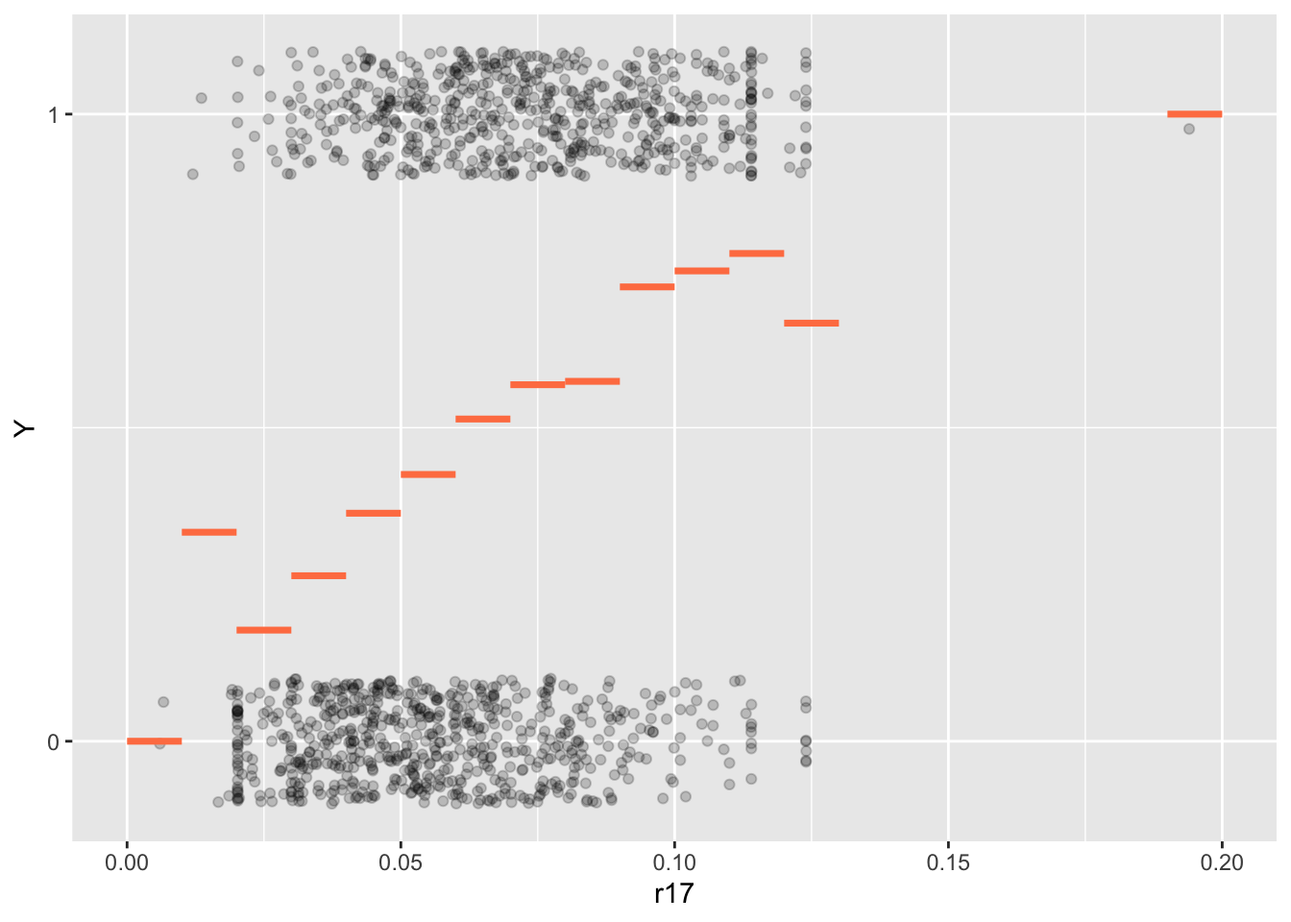
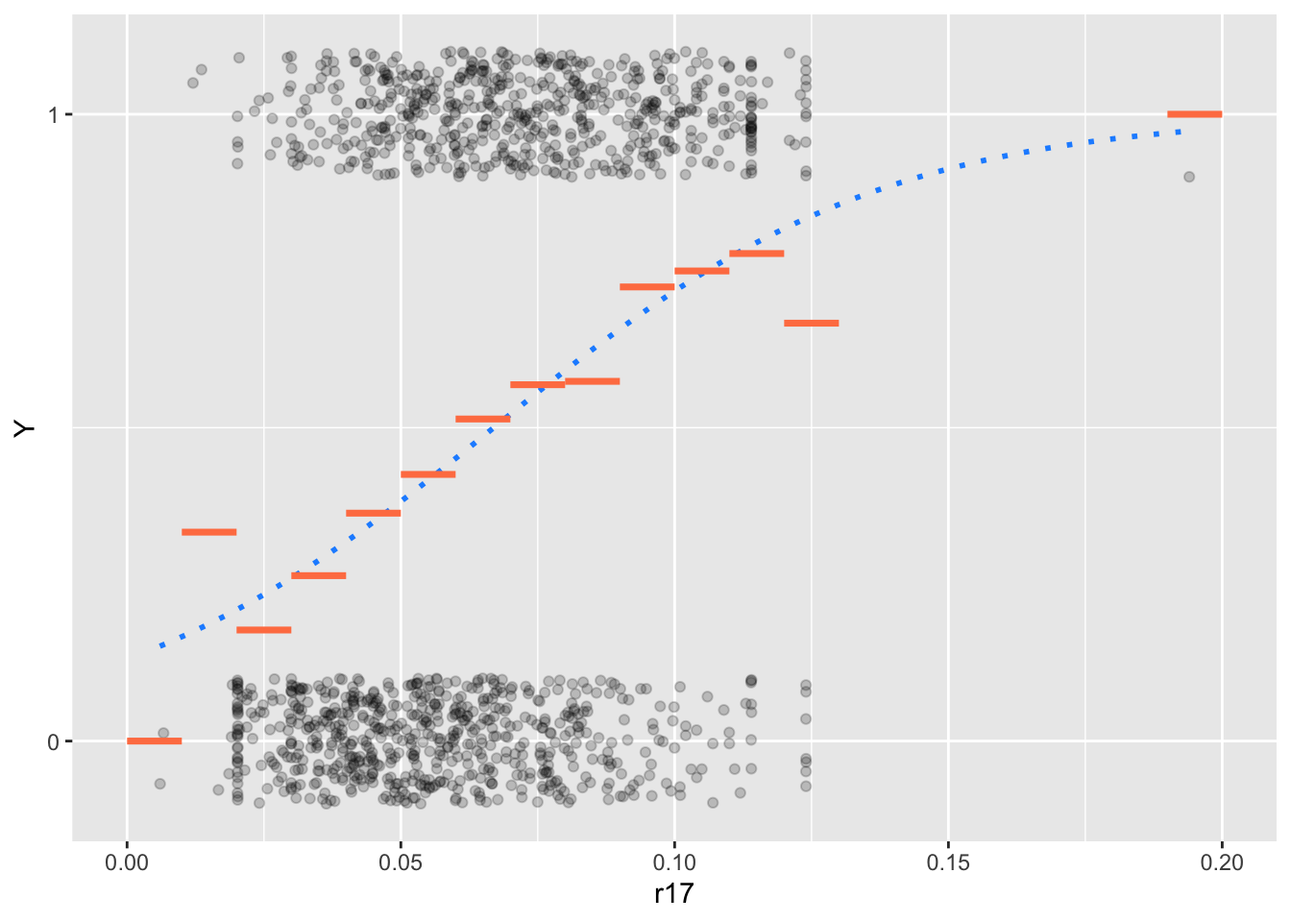
add plot logreg ROC Desbois Case study

diff --git a/0_warmup_desbois/0_warmup_desbois_solution.html b/0_warmup_desbois/0_warmup_desbois_solution.html
@@ -465,31 +465,25 @@ r36  0.192</code></pre>
 </details>
 </div>
 <div class="cell">
-<details open="">
-<summary>Code</summary>
-<div class="sourceCode cell-code" id="cb24"><pre class="sourceCode r code-with-copy"><code class="sourceCode r"><span id="cb24-1"><a href="#cb24-1" aria-hidden="true" tabindex="-1"></a><span class="do">########## YOUR CODE HERE #####################</span></span></code><button title="Copy to Clipboard" class="code-copy-button"><i class="bi"></i></button></pre></div>
-</details>
-</div>
-<div class="cell">
 <details>
 <summary>Code</summary>
-<div class="sourceCode cell-code" id="cb25"><pre class="sourceCode r code-with-copy"><code class="sourceCode r"><span id="cb25-1"><a href="#cb25-1" aria-hidden="true" tabindex="-1"></a>class_width <span class="ot">&lt;-</span> <span class="fl">0.01</span></span>
-<span id="cb25-2"><a href="#cb25-2" aria-hidden="true" tabindex="-1"></a>don_desbois_binned <span class="ot">&lt;-</span> don_desbois <span class="sc">%&gt;%</span></span>
-<span id="cb25-3"><a href="#cb25-3" aria-hidden="true" tabindex="-1"></a>    <span class="fu">mutate</span>(<span class="at">r17_bins =</span> <span class="fu">cut</span>(r17, <span class="at">breaks =</span> <span class="fu">seq</span>(<span class="dv">0</span>, <span class="fl">0.2</span>, class_width),</span>
-<span id="cb25-4"><a href="#cb25-4" aria-hidden="true" tabindex="-1"></a>                              <span class="at">right =</span> <span class="cn">FALSE</span>, <span class="at">dig.lab =</span> <span class="dv">4</span>, <span class="at">include.lowest =</span> <span class="cn">TRUE</span>),</span>
-<span id="cb25-5"><a href="#cb25-5" aria-hidden="true" tabindex="-1"></a>           <span class="at">min =</span> <span class="fu">floor</span>(r17 <span class="sc">/</span> class_width) <span class="sc">*</span> class_width,</span>
-<span id="cb25-6"><a href="#cb25-6" aria-hidden="true" tabindex="-1"></a>           <span class="at">max =</span> <span class="fu">if_else</span>(r17 <span class="sc">==</span> <span class="dv">0</span> , <span class="dv">1</span>, </span>
-<span id="cb25-7"><a href="#cb25-7" aria-hidden="true" tabindex="-1"></a>                         <span class="co"># customers with 0$ balance should belong to [0, width) class</span></span>
-<span id="cb25-8"><a href="#cb25-8" aria-hidden="true" tabindex="-1"></a>                         <span class="co"># or be excluded</span></span>
-<span id="cb25-9"><a href="#cb25-9" aria-hidden="true" tabindex="-1"></a>                         <span class="fu">ceiling</span>(r17 <span class="sc">/</span> class_width))  <span class="sc">*</span> class_width,</span>
-<span id="cb25-10"><a href="#cb25-10" aria-hidden="true" tabindex="-1"></a>           <span class="at">max =</span> <span class="fu">if_else</span>(min<span class="sc">==</span>max, (<span class="fu">ceiling</span>(r17 <span class="sc">/</span> class_width) <span class="sc">+</span> <span class="dv">1</span>)  <span class="sc">*</span> class_width, max)) <span class="sc">%&gt;%</span> </span>
-<span id="cb25-11"><a href="#cb25-11" aria-hidden="true" tabindex="-1"></a>    <span class="fu">group_by</span>(r17_bins, min, max, Y) <span class="sc">%&gt;%</span> </span>
-<span id="cb25-12"><a href="#cb25-12" aria-hidden="true" tabindex="-1"></a>    <span class="fu">summarize</span>(<span class="at">n=</span><span class="fu">n</span>()) <span class="sc">%&gt;%</span> </span>
-<span id="cb25-13"><a href="#cb25-13" aria-hidden="true" tabindex="-1"></a>    <span class="fu">ungroup</span>() <span class="sc">%&gt;%</span> </span>
-<span id="cb25-14"><a href="#cb25-14" aria-hidden="true" tabindex="-1"></a>    <span class="fu">pivot_wider</span>(<span class="at">names_from =</span> Y, <span class="at">values_from =</span> n) <span class="sc">%&gt;%</span></span>
-<span id="cb25-15"><a href="#cb25-15" aria-hidden="true" tabindex="-1"></a>    <span class="fu">replace_na</span>(<span class="fu">list</span>(<span class="st">`</span><span class="at">0</span><span class="st">`</span> <span class="ot">=</span> <span class="dv">0</span>, <span class="st">`</span><span class="at">1</span><span class="st">`</span> <span class="ot">=</span> <span class="dv">0</span>)) <span class="sc">%&gt;%</span> </span>
-<span id="cb25-16"><a href="#cb25-16" aria-hidden="true" tabindex="-1"></a>    <span class="fu">mutate</span>(<span class="st">`</span><span class="at">Mean(Y)</span><span class="st">`</span> <span class="ot">=</span> <span class="fu">round</span>(<span class="st">`</span><span class="at">1</span><span class="st">`</span> <span class="sc">/</span> (<span class="st">`</span><span class="at">1</span><span class="st">`</span> <span class="sc">+</span> <span class="st">`</span><span class="at">0</span><span class="st">`</span>), <span class="dv">4</span>))</span>
-<span id="cb25-17"><a href="#cb25-17" aria-hidden="true" tabindex="-1"></a><span class="fu">cat</span>(simplermarkdown<span class="sc">::</span><span class="fu">md_table</span>(don_desbois_binned <span class="sc">%&gt;%</span> <span class="fu">select</span>(<span class="at">r17_class=</span>r17_bins, <span class="st">`</span><span class="at">0</span><span class="st">`</span>, <span class="st">`</span><span class="at">1</span><span class="st">`</span>,<span class="st">`</span><span class="at">Mean(Y)</span><span class="st">`</span> )))</span></code><button title="Copy to Clipboard" class="code-copy-button"><i class="bi"></i></button></pre></div>
+<div class="sourceCode cell-code" id="cb24"><pre class="sourceCode r code-with-copy"><code class="sourceCode r"><span id="cb24-1"><a href="#cb24-1" aria-hidden="true" tabindex="-1"></a>class_width <span class="ot">&lt;-</span> <span class="fl">0.01</span></span>
+<span id="cb24-2"><a href="#cb24-2" aria-hidden="true" tabindex="-1"></a>don_desbois_binned <span class="ot">&lt;-</span> don_desbois <span class="sc">%&gt;%</span></span>
+<span id="cb24-3"><a href="#cb24-3" aria-hidden="true" tabindex="-1"></a>    <span class="fu">mutate</span>(<span class="at">r17_bins =</span> <span class="fu">cut</span>(r17, <span class="at">breaks =</span> <span class="fu">seq</span>(<span class="dv">0</span>, <span class="fl">0.2</span>, class_width),</span>
+<span id="cb24-4"><a href="#cb24-4" aria-hidden="true" tabindex="-1"></a>                              <span class="at">right =</span> <span class="cn">FALSE</span>, <span class="at">dig.lab =</span> <span class="dv">4</span>, <span class="at">include.lowest =</span> <span class="cn">TRUE</span>),</span>
+<span id="cb24-5"><a href="#cb24-5" aria-hidden="true" tabindex="-1"></a>           <span class="at">min =</span> <span class="fu">floor</span>(r17 <span class="sc">/</span> class_width) <span class="sc">*</span> class_width,</span>
+<span id="cb24-6"><a href="#cb24-6" aria-hidden="true" tabindex="-1"></a>           <span class="at">max =</span> <span class="fu">if_else</span>(r17 <span class="sc">==</span> <span class="dv">0</span> , <span class="dv">1</span>, </span>
+<span id="cb24-7"><a href="#cb24-7" aria-hidden="true" tabindex="-1"></a>                         <span class="co"># customers with 0$ balance should belong to [0, width) class</span></span>
+<span id="cb24-8"><a href="#cb24-8" aria-hidden="true" tabindex="-1"></a>                         <span class="co"># or be excluded</span></span>
+<span id="cb24-9"><a href="#cb24-9" aria-hidden="true" tabindex="-1"></a>                         <span class="fu">ceiling</span>(r17 <span class="sc">/</span> class_width))  <span class="sc">*</span> class_width,</span>
+<span id="cb24-10"><a href="#cb24-10" aria-hidden="true" tabindex="-1"></a>           <span class="at">max =</span> <span class="fu">if_else</span>(min<span class="sc">==</span>max, (<span class="fu">ceiling</span>(r17 <span class="sc">/</span> class_width) <span class="sc">+</span> <span class="dv">1</span>)  <span class="sc">*</span> class_width, max)) <span class="sc">%&gt;%</span> </span>
+<span id="cb24-11"><a href="#cb24-11" aria-hidden="true" tabindex="-1"></a>    <span class="fu">group_by</span>(r17_bins, min, max, Y) <span class="sc">%&gt;%</span> </span>
+<span id="cb24-12"><a href="#cb24-12" aria-hidden="true" tabindex="-1"></a>    <span class="fu">summarize</span>(<span class="at">n=</span><span class="fu">n</span>()) <span class="sc">%&gt;%</span> </span>
+<span id="cb24-13"><a href="#cb24-13" aria-hidden="true" tabindex="-1"></a>    <span class="fu">ungroup</span>() <span class="sc">%&gt;%</span> </span>
+<span id="cb24-14"><a href="#cb24-14" aria-hidden="true" tabindex="-1"></a>    <span class="fu">pivot_wider</span>(<span class="at">names_from =</span> Y, <span class="at">values_from =</span> n) <span class="sc">%&gt;%</span></span>
+<span id="cb24-15"><a href="#cb24-15" aria-hidden="true" tabindex="-1"></a>    <span class="fu">replace_na</span>(<span class="fu">list</span>(<span class="st">`</span><span class="at">0</span><span class="st">`</span> <span class="ot">=</span> <span class="dv">0</span>, <span class="st">`</span><span class="at">1</span><span class="st">`</span> <span class="ot">=</span> <span class="dv">0</span>)) <span class="sc">%&gt;%</span> </span>
+<span id="cb24-16"><a href="#cb24-16" aria-hidden="true" tabindex="-1"></a>    <span class="fu">mutate</span>(<span class="st">`</span><span class="at">Mean(Y)</span><span class="st">`</span> <span class="ot">=</span> <span class="fu">round</span>(<span class="st">`</span><span class="at">1</span><span class="st">`</span> <span class="sc">/</span> (<span class="st">`</span><span class="at">1</span><span class="st">`</span> <span class="sc">+</span> <span class="st">`</span><span class="at">0</span><span class="st">`</span>), <span class="dv">4</span>))</span>
+<span id="cb24-17"><a href="#cb24-17" aria-hidden="true" tabindex="-1"></a><span class="fu">cat</span>(simplermarkdown<span class="sc">::</span><span class="fu">md_table</span>(don_desbois_binned <span class="sc">%&gt;%</span> <span class="fu">select</span>(<span class="at">r17_class=</span>r17_bins, <span class="st">`</span><span class="at">0</span><span class="st">`</span>, <span class="st">`</span><span class="at">1</span><span class="st">`</span>,<span class="st">`</span><span class="at">Mean(Y)</span><span class="st">`</span> )))</span></code><button title="Copy to Clipboard" class="code-copy-button"><i class="bi"></i></button></pre></div>
 </details>
 <div class="cell-output cell-output-stdout">
 <pre><code>|r17_class  |0  |1 |Mean(Y)|
@@ -516,8 +510,24 @@ r36  0.192</code></pre>
 <div class="cell">
 <details open="">
 <summary>Code</summary>
-<div class="sourceCode cell-code" id="cb27"><pre class="sourceCode r code-with-copy"><code class="sourceCode r"><span id="cb27-1"><a href="#cb27-1" aria-hidden="true" tabindex="-1"></a><span class="do">########## YOUR CODE HERE #####################</span></span></code><button title="Copy to Clipboard" class="code-copy-button"><i class="bi"></i></button></pre></div>
+<div class="sourceCode cell-code" id="cb26"><pre class="sourceCode r code-with-copy"><code class="sourceCode r"><span id="cb26-1"><a href="#cb26-1" aria-hidden="true" tabindex="-1"></a><span class="do">########## YOUR CODE HERE #####################</span></span></code><button title="Copy to Clipboard" class="code-copy-button"><i class="bi"></i></button></pre></div>
 </details>
+</div>
+<div class="cell">
+<details>
+<summary>Code</summary>
+<div class="sourceCode cell-code" id="cb27"><pre class="sourceCode r code-with-copy"><code class="sourceCode r"><span id="cb27-1"><a href="#cb27-1" aria-hidden="true" tabindex="-1"></a>(default_occurrence <span class="ot">&lt;-</span> </span>
+<span id="cb27-2"><a href="#cb27-2" aria-hidden="true" tabindex="-1"></a> <span class="fu">ggplot</span>(don_desbois <span class="sc">%&gt;%</span> <span class="fu">mutate</span>(<span class="at">Y =</span> <span class="fu">if_else</span>(Y <span class="sc">==</span> <span class="st">"1"</span>, <span class="dv">1</span>, <span class="dv">0</span>)), <span class="fu">aes</span>(<span class="at">x=</span>r17, <span class="at">y=</span>Y)) <span class="sc">+</span></span>
+<span id="cb27-3"><a href="#cb27-3" aria-hidden="true" tabindex="-1"></a> <span class="fu">geom_jitter</span>(<span class="at">alpha=</span><span class="fl">0.2</span>, <span class="at">height=</span><span class="fl">0.1</span>) <span class="sc">+</span></span>
+<span id="cb27-4"><a href="#cb27-4" aria-hidden="true" tabindex="-1"></a> <span class="fu">geom_segment</span>(<span class="at">data =</span> don_desbois_binned,</span>
+<span id="cb27-5"><a href="#cb27-5" aria-hidden="true" tabindex="-1"></a>              <span class="fu">aes</span>(<span class="at">x =</span> min, <span class="at">xend =</span> max, <span class="at">y =</span> <span class="st">`</span><span class="at">Mean(Y)</span><span class="st">`</span>, <span class="at">yend =</span> <span class="st">`</span><span class="at">Mean(Y)</span><span class="st">`</span>),</span>
+<span id="cb27-6"><a href="#cb27-6" aria-hidden="true" tabindex="-1"></a>              <span class="at">color =</span> <span class="st">'coral'</span>,</span>
+<span id="cb27-7"><a href="#cb27-7" aria-hidden="true" tabindex="-1"></a>              <span class="at">linewidth=</span><span class="fl">1.25</span>)) <span class="sc">+</span></span>
+<span id="cb27-8"><a href="#cb27-8" aria-hidden="true" tabindex="-1"></a> <span class="fu">scale_y_continuous</span>(<span class="at">breaks =</span> <span class="fu">c</span>(<span class="dv">0</span>, <span class="dv">1</span>))</span></code><button title="Copy to Clipboard" class="code-copy-button"><i class="bi"></i></button></pre></div>
+</details>
+<div class="cell-output-display">
+<p><img src="0_warmup_desbois_solution_files/figure-html/unnamed-chunk-21-1.png" class="img-fluid" width="672"></p>
+</div>
 </div>
 <div class="cell">
 <details>
@@ -525,41 +535,134 @@ r36  0.192</code></pre>
 <div class="sourceCode cell-code" id="cb28"><pre class="sourceCode r code-with-copy"><code class="sourceCode r"><span id="cb28-1"><a href="#cb28-1" aria-hidden="true" tabindex="-1"></a>(default_occurrence <span class="ot">&lt;-</span> </span>
 <span id="cb28-2"><a href="#cb28-2" aria-hidden="true" tabindex="-1"></a> <span class="fu">ggplot</span>(don_desbois <span class="sc">%&gt;%</span> <span class="fu">mutate</span>(<span class="at">Y =</span> <span class="fu">if_else</span>(Y <span class="sc">==</span> <span class="st">"1"</span>, <span class="dv">1</span>, <span class="dv">0</span>)), <span class="fu">aes</span>(<span class="at">x=</span>r17, <span class="at">y=</span>Y)) <span class="sc">+</span></span>
 <span id="cb28-3"><a href="#cb28-3" aria-hidden="true" tabindex="-1"></a> <span class="fu">geom_jitter</span>(<span class="at">alpha=</span><span class="fl">0.2</span>, <span class="at">height=</span><span class="fl">0.1</span>) <span class="sc">+</span></span>
-<span id="cb28-4"><a href="#cb28-4" aria-hidden="true" tabindex="-1"></a> <span class="fu">geom_segment</span>(<span class="at">data =</span> don_desbois_binned,</span>
-<span id="cb28-5"><a href="#cb28-5" aria-hidden="true" tabindex="-1"></a>              <span class="fu">aes</span>(<span class="at">x =</span> min, <span class="at">xend =</span> max, <span class="at">y =</span> <span class="st">`</span><span class="at">Mean(Y)</span><span class="st">`</span>, <span class="at">yend =</span> <span class="st">`</span><span class="at">Mean(Y)</span><span class="st">`</span>),</span>
-<span id="cb28-6"><a href="#cb28-6" aria-hidden="true" tabindex="-1"></a>              <span class="at">color =</span> <span class="st">'coral'</span>,</span>
-<span id="cb28-7"><a href="#cb28-7" aria-hidden="true" tabindex="-1"></a>              <span class="at">linewidth=</span><span class="fl">1.25</span>)) <span class="sc">+</span></span>
-<span id="cb28-8"><a href="#cb28-8" aria-hidden="true" tabindex="-1"></a> <span class="fu">scale_y_continuous</span>(<span class="at">breaks =</span> <span class="fu">c</span>(<span class="dv">0</span>, <span class="dv">1</span>))</span></code><button title="Copy to Clipboard" class="code-copy-button"><i class="bi"></i></button></pre></div>
+<span id="cb28-4"><a href="#cb28-4" aria-hidden="true" tabindex="-1"></a> <span class="fu">geom_smooth</span>(<span class="at">method =</span> <span class="st">"glm"</span>, </span>
+<span id="cb28-5"><a href="#cb28-5" aria-hidden="true" tabindex="-1"></a>             <span class="at">formula =</span> y <span class="sc">~</span> x,</span>
+<span id="cb28-6"><a href="#cb28-6" aria-hidden="true" tabindex="-1"></a>             <span class="at">method.args =</span> <span class="fu">list</span>(<span class="at">family =</span> <span class="st">"binomial"</span>), </span>
+<span id="cb28-7"><a href="#cb28-7" aria-hidden="true" tabindex="-1"></a>             <span class="at">se =</span> <span class="cn">FALSE</span>,</span>
+<span id="cb28-8"><a href="#cb28-8" aria-hidden="true" tabindex="-1"></a>             <span class="at">col =</span> <span class="st">"dodgerblue"</span>,</span>
+<span id="cb28-9"><a href="#cb28-9" aria-hidden="true" tabindex="-1"></a>             <span class="at">linetype =</span> <span class="st">"dotted"</span>) <span class="sc">+</span></span>
+<span id="cb28-10"><a href="#cb28-10" aria-hidden="true" tabindex="-1"></a> <span class="fu">geom_segment</span>(<span class="at">data =</span> don_desbois_binned,</span>
+<span id="cb28-11"><a href="#cb28-11" aria-hidden="true" tabindex="-1"></a>              <span class="fu">aes</span>(<span class="at">x =</span> min, <span class="at">xend =</span> max, <span class="at">y =</span> <span class="st">`</span><span class="at">Mean(Y)</span><span class="st">`</span>, <span class="at">yend =</span> <span class="st">`</span><span class="at">Mean(Y)</span><span class="st">`</span>),</span>
+<span id="cb28-12"><a href="#cb28-12" aria-hidden="true" tabindex="-1"></a>              <span class="at">color =</span> <span class="st">'coral'</span>,</span>
+<span id="cb28-13"><a href="#cb28-13" aria-hidden="true" tabindex="-1"></a>              <span class="at">linewidth=</span><span class="fl">1.25</span>)) <span class="sc">+</span></span>
+<span id="cb28-14"><a href="#cb28-14" aria-hidden="true" tabindex="-1"></a> <span class="fu">scale_y_continuous</span>(<span class="at">breaks =</span> <span class="fu">c</span>(<span class="dv">0</span>, <span class="dv">1</span>))</span></code><button title="Copy to Clipboard" class="code-copy-button"><i class="bi"></i></button></pre></div>
 </details>
 <div class="cell-output-display">
 <p><img src="0_warmup_desbois_solution_files/figure-html/unnamed-chunk-22-1.png" class="img-fluid" width="672"></p>
 </div>
 </div>
-<div class="cell">
-<details>
-<summary>Code</summary>
-<div class="sourceCode cell-code" id="cb29"><pre class="sourceCode r code-with-copy"><code class="sourceCode r"><span id="cb29-1"><a href="#cb29-1" aria-hidden="true" tabindex="-1"></a>(default_occurrence <span class="ot">&lt;-</span> </span>
-<span id="cb29-2"><a href="#cb29-2" aria-hidden="true" tabindex="-1"></a> <span class="fu">ggplot</span>(don_desbois <span class="sc">%&gt;%</span> <span class="fu">mutate</span>(<span class="at">Y =</span> <span class="fu">if_else</span>(Y <span class="sc">==</span> <span class="st">"1"</span>, <span class="dv">1</span>, <span class="dv">0</span>)), <span class="fu">aes</span>(<span class="at">x=</span>r17, <span class="at">y=</span>Y)) <span class="sc">+</span></span>
-<span id="cb29-3"><a href="#cb29-3" aria-hidden="true" tabindex="-1"></a> <span class="fu">geom_jitter</span>(<span class="at">alpha=</span><span class="fl">0.2</span>, <span class="at">height=</span><span class="fl">0.1</span>) <span class="sc">+</span></span>
-<span id="cb29-4"><a href="#cb29-4" aria-hidden="true" tabindex="-1"></a> <span class="fu">geom_smooth</span>(<span class="at">method =</span> <span class="st">"glm"</span>, </span>
-<span id="cb29-5"><a href="#cb29-5" aria-hidden="true" tabindex="-1"></a>             <span class="at">formula =</span> y <span class="sc">~</span> x,</span>
-<span id="cb29-6"><a href="#cb29-6" aria-hidden="true" tabindex="-1"></a>             <span class="at">method.args =</span> <span class="fu">list</span>(<span class="at">family =</span> <span class="st">"binomial"</span>), </span>
-<span id="cb29-7"><a href="#cb29-7" aria-hidden="true" tabindex="-1"></a>             <span class="at">se =</span> <span class="cn">FALSE</span>,</span>
-<span id="cb29-8"><a href="#cb29-8" aria-hidden="true" tabindex="-1"></a>             <span class="at">col =</span> <span class="st">"dodgerblue"</span>,</span>
-<span id="cb29-9"><a href="#cb29-9" aria-hidden="true" tabindex="-1"></a>             <span class="at">linetype =</span> <span class="st">"dotted"</span>) <span class="sc">+</span></span>
-<span id="cb29-10"><a href="#cb29-10" aria-hidden="true" tabindex="-1"></a> <span class="fu">geom_segment</span>(<span class="at">data =</span> don_desbois_binned,</span>
-<span id="cb29-11"><a href="#cb29-11" aria-hidden="true" tabindex="-1"></a>              <span class="fu">aes</span>(<span class="at">x =</span> min, <span class="at">xend =</span> max, <span class="at">y =</span> <span class="st">`</span><span class="at">Mean(Y)</span><span class="st">`</span>, <span class="at">yend =</span> <span class="st">`</span><span class="at">Mean(Y)</span><span class="st">`</span>),</span>
-<span id="cb29-12"><a href="#cb29-12" aria-hidden="true" tabindex="-1"></a>              <span class="at">color =</span> <span class="st">'coral'</span>,</span>
-<span id="cb29-13"><a href="#cb29-13" aria-hidden="true" tabindex="-1"></a>              <span class="at">linewidth=</span><span class="fl">1.25</span>)) <span class="sc">+</span></span>
-<span id="cb29-14"><a href="#cb29-14" aria-hidden="true" tabindex="-1"></a> <span class="fu">scale_y_continuous</span>(<span class="at">breaks =</span> <span class="fu">c</span>(<span class="dv">0</span>, <span class="dv">1</span>))</span></code><button title="Copy to Clipboard" class="code-copy-button"><i class="bi"></i></button></pre></div>
-</details>
-<div class="cell-output-display">
-<p><img src="0_warmup_desbois_solution_files/figure-html/unnamed-chunk-23-1.png" class="img-fluid" width="672"></p>
-</div>
-</div>
 <p>This roughly corresponds to the intuitive introduction to the logistic regression model given in <span class="citation" data-cites="hosmer2013">Hosmer et al. (<a href="#ref-hosmer2013" role="doc-biblioref">2013</a>)</span> using a Coronary Heart Disease (CHD) event as <span class="math inline">\(Y\)</span> and AGE as <span class="math inline">\(X\)</span>:</p>
 <p><img src="../images/hosmer_lemeshow_chd3.png" class="img-fluid"></p>
 <p><img src="../images/hosmer_lemeshow_chd4.png" class="img-fluid"></p>
+<p>Since Logistic Regression has been briefly introduced in class, you can directly apply it to the Desbois dataset using R glm() function and compare it to (i) the naive score based on PCA and (ii) the LDA using a ROC curve. You can re-use the code provided before covering the first part of Desbois case study and adapt it to your needs.</p>
+<p>First fit a linear regression model, we use the same set of variables as for LDA before:</p>
+<div class="cell">
+<details>
+<summary>Code</summary>
+<div class="sourceCode cell-code" id="cb29"><pre class="sourceCode r code-with-copy"><code class="sourceCode r"><span id="cb29-1"><a href="#cb29-1" aria-hidden="true" tabindex="-1"></a>glm_desbois <span class="ot">&lt;-</span> <span class="fu">glm</span>(Y<span class="sc">~</span>r2<span class="sc">+</span>r3<span class="sc">+</span>r7<span class="sc">+</span>r14<span class="sc">+</span>r17<span class="sc">+</span>r18<span class="sc">+</span>r21<span class="sc">+</span>r32<span class="sc">+</span>r36,</span>
+<span id="cb29-2"><a href="#cb29-2" aria-hidden="true" tabindex="-1"></a>                   <span class="at">data=</span>don_desbois, </span>
+<span id="cb29-3"><a href="#cb29-3" aria-hidden="true" tabindex="-1"></a>                   <span class="at">family =</span> <span class="fu">binomial</span>(<span class="at">link =</span> <span class="st">"logit"</span>))</span>
+<span id="cb29-4"><a href="#cb29-4" aria-hidden="true" tabindex="-1"></a><span class="fu">summary</span>(glm_desbois)</span></code><button title="Copy to Clipboard" class="code-copy-button"><i class="bi"></i></button></pre></div>
+</details>
+<div class="cell-output cell-output-stdout">
+<pre><code>
+Call:
+glm(formula = Y ~ r2 + r3 + r7 + r14 + r17 + r18 + r21 + r32 + 
+    r36, family = binomial(link = "logit"), data = don_desbois)
+
+Coefficients:
+            Estimate Std. Error z value Pr(&gt;|z|)    
+(Intercept)  -3.4203     1.2834  -2.665  0.00770 ** 
+r2           -5.2156     1.2108  -4.307 1.65e-05 ***
+r3            5.8347     1.2487   4.673 2.97e-06 ***
+r7            2.9003     0.9530   3.043  0.00234 ** 
+r14           2.1470     0.4777   4.494 6.98e-06 ***
+r17          45.6847     9.6836   4.718 2.38e-06 ***
+r18         -24.6368     9.1127  -2.704  0.00686 ** 
+r21           1.7335     1.9481   0.890  0.37355    
+r32          -5.0215     1.8907  -2.656  0.00791 ** 
+r36           0.4494     0.3558   1.263  0.20661    
+---
+Signif. codes:  0 '***' 0.001 '**' 0.01 '*' 0.05 '.' 0.1 ' ' 1
+
+(Dispersion parameter for binomial family taken to be 1)
+
+    Null deviance: 1745.1  on 1259  degrees of freedom
+Residual deviance:  691.3  on 1250  degrees of freedom
+AIC: 711.3
+
+Number of Fisher Scoring iterations: 8</code></pre>
+</div>
+</div>
+<p>Now compare the LDA Scoring function with the naive Score build with first component of PCA using a ROC curve (on training set):</p>
+<div class="cell">
+<details open="">
+<summary>Code</summary>
+<div class="sourceCode cell-code" id="cb31"><pre class="sourceCode r code-with-copy"><code class="sourceCode r"><span id="cb31-1"><a href="#cb31-1" aria-hidden="true" tabindex="-1"></a><span class="do">########## YOUR CODE HERE #####################</span></span></code><button title="Copy to Clipboard" class="code-copy-button"><i class="bi"></i></button></pre></div>
+</details>
+</div>
+<div class="cell">
+<details>
+<summary>Code</summary>
+<div class="sourceCode cell-code" id="cb32"><pre class="sourceCode r code-with-copy"><code class="sourceCode r"><span id="cb32-1"><a href="#cb32-1" aria-hidden="true" tabindex="-1"></a><span class="co"># for ROCR</span></span>
+<span id="cb32-2"><a href="#cb32-2" aria-hidden="true" tabindex="-1"></a>labels_desbois <span class="ot">&lt;-</span> don_desbois<span class="sc">$</span>Y</span>
+<span id="cb32-3"><a href="#cb32-3" aria-hidden="true" tabindex="-1"></a></span>
+<span id="cb32-4"><a href="#cb32-4" aria-hidden="true" tabindex="-1"></a><span class="co"># naive score</span></span>
+<span id="cb32-5"><a href="#cb32-5" aria-hidden="true" tabindex="-1"></a>predictions_naive_score <span class="ot">&lt;-</span> naive_score<span class="sc">$</span>Dim<span class="fl">.1</span></span>
+<span id="cb32-6"><a href="#cb32-6" aria-hidden="true" tabindex="-1"></a></span>
+<span id="cb32-7"><a href="#cb32-7" aria-hidden="true" tabindex="-1"></a>naive_score_group <span class="ot">&lt;-</span> naive_score <span class="sc">%&gt;%</span></span>
+<span id="cb32-8"><a href="#cb32-8" aria-hidden="true" tabindex="-1"></a>  <span class="fu">group_by</span>(Y) <span class="sc">%&gt;%</span></span>
+<span id="cb32-9"><a href="#cb32-9" aria-hidden="true" tabindex="-1"></a>  <span class="fu">summarize</span>(<span class="at">mean_score =</span> <span class="fu">mean</span>(Dim<span class="fl">.1</span>), <span class="at">n =</span> <span class="fu">n</span>())</span>
+<span id="cb32-10"><a href="#cb32-10" aria-hidden="true" tabindex="-1"></a></span>
+<span id="cb32-11"><a href="#cb32-11" aria-hidden="true" tabindex="-1"></a>cutoff_naive <span class="ot">&lt;-</span> <span class="fu">mean</span>(naive_score_group<span class="sc">$</span>mean_score)</span>
+<span id="cb32-12"><a href="#cb32-12" aria-hidden="true" tabindex="-1"></a></span>
+<span id="cb32-13"><a href="#cb32-13" aria-hidden="true" tabindex="-1"></a>pred <span class="ot">&lt;-</span> <span class="fu">prediction</span>(predictions_naive_score, labels_desbois)</span>
+<span id="cb32-14"><a href="#cb32-14" aria-hidden="true" tabindex="-1"></a>perf <span class="ot">&lt;-</span> <span class="fu">performance</span>(pred, <span class="at">measure =</span> <span class="st">"tpr"</span>, <span class="at">x.measure =</span> <span class="st">"fpr"</span>)</span>
+<span id="cb32-15"><a href="#cb32-15" aria-hidden="true" tabindex="-1"></a><span class="fu">plot</span>(perf, <span class="at">main=</span><span class="st">"ROC curve Admissions"</span>, <span class="at">xlab=</span><span class="st">"Specificity"</span>,</span>
+<span id="cb32-16"><a href="#cb32-16" aria-hidden="true" tabindex="-1"></a>     <span class="at">ylab=</span><span class="st">"Sensitivity"</span>, <span class="at">col =</span> <span class="st">"darkolivegreen"</span>, </span>
+<span id="cb32-17"><a href="#cb32-17" aria-hidden="true" tabindex="-1"></a>     <span class="at">print.cutoffs.at =</span> <span class="fu">c</span>(cutoff_naive), </span>
+<span id="cb32-18"><a href="#cb32-18" aria-hidden="true" tabindex="-1"></a>     <span class="at">cutoff.label.function =</span> <span class="cf">function</span>(x) {<span class="fu">paste0</span>(<span class="st">"                s = "</span>,<span class="fu">round</span>(x,<span class="dv">2</span>))})</span>
+<span id="cb32-19"><a href="#cb32-19" aria-hidden="true" tabindex="-1"></a><span class="fu">abline</span>(<span class="dv">0</span>, <span class="dv">1</span>) <span class="co">#add a 45 degree line</span></span>
+<span id="cb32-20"><a href="#cb32-20" aria-hidden="true" tabindex="-1"></a></span>
+<span id="cb32-21"><a href="#cb32-21" aria-hidden="true" tabindex="-1"></a><span class="co"># lda</span></span>
+<span id="cb32-22"><a href="#cb32-22" aria-hidden="true" tabindex="-1"></a>predictions_lda <span class="ot">&lt;-</span> <span class="fu">predict</span>(lda_desbois)<span class="sc">$</span>x</span>
+<span id="cb32-23"><a href="#cb32-23" aria-hidden="true" tabindex="-1"></a></span>
+<span id="cb32-24"><a href="#cb32-24" aria-hidden="true" tabindex="-1"></a>lda_score_group <span class="ot">&lt;-</span> <span class="fu">bind_cols</span>(don_desbois, predictions_lda) <span class="sc">%&gt;%</span></span>
+<span id="cb32-25"><a href="#cb32-25" aria-hidden="true" tabindex="-1"></a>  <span class="fu">group_by</span>(Y) <span class="sc">%&gt;%</span></span>
+<span id="cb32-26"><a href="#cb32-26" aria-hidden="true" tabindex="-1"></a>  <span class="fu">summarize</span>(<span class="at">mean_score =</span> <span class="fu">mean</span>(LD1), <span class="at">n =</span> <span class="fu">n</span>())</span>
+<span id="cb32-27"><a href="#cb32-27" aria-hidden="true" tabindex="-1"></a></span>
+<span id="cb32-28"><a href="#cb32-28" aria-hidden="true" tabindex="-1"></a>cutoff_lda <span class="ot">&lt;-</span> <span class="fu">mean</span>(lda_score_group<span class="sc">$</span>mean_score)</span>
+<span id="cb32-29"><a href="#cb32-29" aria-hidden="true" tabindex="-1"></a></span>
+<span id="cb32-30"><a href="#cb32-30" aria-hidden="true" tabindex="-1"></a>pred <span class="ot">&lt;-</span> <span class="fu">prediction</span>(predictions_lda, labels_desbois)</span>
+<span id="cb32-31"><a href="#cb32-31" aria-hidden="true" tabindex="-1"></a>perf <span class="ot">&lt;-</span> <span class="fu">performance</span>(pred, <span class="at">measure =</span> <span class="st">"tpr"</span>, <span class="at">x.measure =</span> <span class="st">"fpr"</span>)</span>
+<span id="cb32-32"><a href="#cb32-32" aria-hidden="true" tabindex="-1"></a><span class="fu">plot</span>(perf, <span class="at">add =</span> <span class="cn">TRUE</span>, <span class="at">main=</span><span class="st">"ROC curve Admissions"</span>, <span class="at">xlab=</span><span class="st">"Specificity"</span>,</span>
+<span id="cb32-33"><a href="#cb32-33" aria-hidden="true" tabindex="-1"></a>     <span class="at">ylab=</span><span class="st">"Sensitivity"</span>, <span class="at">col =</span> <span class="st">"plum4"</span>,</span>
+<span id="cb32-34"><a href="#cb32-34" aria-hidden="true" tabindex="-1"></a>     <span class="at">print.cutoffs.at =</span> <span class="fu">c</span>(cutoff_lda), </span>
+<span id="cb32-35"><a href="#cb32-35" aria-hidden="true" tabindex="-1"></a>     <span class="at">cutoff.label.function =</span> <span class="cf">function</span>(x) {<span class="fu">paste0</span>(<span class="st">"                s = "</span>,<span class="fu">round</span>(x,<span class="dv">2</span>))})</span>
+<span id="cb32-36"><a href="#cb32-36" aria-hidden="true" tabindex="-1"></a></span>
+<span id="cb32-37"><a href="#cb32-37" aria-hidden="true" tabindex="-1"></a><span class="co"># glm</span></span>
+<span id="cb32-38"><a href="#cb32-38" aria-hidden="true" tabindex="-1"></a>predictions_glm <span class="ot">&lt;-</span> <span class="fu">predict</span>(glm_desbois, <span class="at">type=</span><span class="st">'response'</span>)</span>
+<span id="cb32-39"><a href="#cb32-39" aria-hidden="true" tabindex="-1"></a></span>
+<span id="cb32-40"><a href="#cb32-40" aria-hidden="true" tabindex="-1"></a>glm_score_group <span class="ot">&lt;-</span> <span class="fu">bind_cols</span>(don_desbois, <span class="fu">tibble</span>(<span class="at">pred_glm =</span>predictions_glm)) <span class="sc">%&gt;%</span></span>
+<span id="cb32-41"><a href="#cb32-41" aria-hidden="true" tabindex="-1"></a>  <span class="fu">group_by</span>(Y) <span class="sc">%&gt;%</span></span>
+<span id="cb32-42"><a href="#cb32-42" aria-hidden="true" tabindex="-1"></a>  <span class="fu">summarize</span>(<span class="at">mean_score =</span> <span class="fu">mean</span>(pred_glm), <span class="at">n =</span> <span class="fu">n</span>())</span>
+<span id="cb32-43"><a href="#cb32-43" aria-hidden="true" tabindex="-1"></a></span>
+<span id="cb32-44"><a href="#cb32-44" aria-hidden="true" tabindex="-1"></a>cutoff_glm <span class="ot">&lt;-</span> <span class="fu">mean</span>(glm_score_group<span class="sc">$</span>mean_score)</span>
+<span id="cb32-45"><a href="#cb32-45" aria-hidden="true" tabindex="-1"></a></span>
+<span id="cb32-46"><a href="#cb32-46" aria-hidden="true" tabindex="-1"></a>pred <span class="ot">&lt;-</span> <span class="fu">prediction</span>(predictions_glm, labels_desbois)</span>
+<span id="cb32-47"><a href="#cb32-47" aria-hidden="true" tabindex="-1"></a>perf <span class="ot">&lt;-</span> <span class="fu">performance</span>(pred, <span class="at">measure =</span> <span class="st">"tpr"</span>, <span class="at">x.measure =</span> <span class="st">"fpr"</span>)</span>
+<span id="cb32-48"><a href="#cb32-48" aria-hidden="true" tabindex="-1"></a><span class="fu">plot</span>(perf, <span class="at">add =</span> <span class="cn">TRUE</span>, <span class="at">main=</span><span class="st">"ROC curve Admissions"</span>, <span class="at">xlab=</span><span class="st">"Specificity"</span>,</span>
+<span id="cb32-49"><a href="#cb32-49" aria-hidden="true" tabindex="-1"></a>     <span class="at">ylab=</span><span class="st">"Sensitivity"</span>, <span class="at">col =</span> <span class="st">"dodgerblue"</span>,</span>
+<span id="cb32-50"><a href="#cb32-50" aria-hidden="true" tabindex="-1"></a>     <span class="at">print.cutoffs.at =</span> <span class="fu">c</span>(cutoff_glm), </span>
+<span id="cb32-51"><a href="#cb32-51" aria-hidden="true" tabindex="-1"></a>     <span class="at">cutoff.label.function =</span> <span class="cf">function</span>(x) {<span class="fu">paste0</span>(<span class="st">"                s = "</span>,<span class="fu">round</span>(x,<span class="dv">2</span>))})</span>
+<span id="cb32-52"><a href="#cb32-52" aria-hidden="true" tabindex="-1"></a><span class="fu">legend</span>(<span class="fl">0.6</span>,<span class="fl">0.6</span>,</span>
+<span id="cb32-53"><a href="#cb32-53" aria-hidden="true" tabindex="-1"></a>       <span class="fu">c</span>(<span class="st">'naive - PCA'</span>, <span class="st">'LDA'</span>, <span class="st">'Logistic'</span>),</span>
+<span id="cb32-54"><a href="#cb32-54" aria-hidden="true" tabindex="-1"></a>       <span class="at">col=</span><span class="fu">c</span>(<span class="st">"darkolivegreen"</span>, <span class="st">"plum4"</span>, <span class="st">"dodgerblue"</span>),<span class="at">lwd=</span><span class="dv">3</span>)</span></code><button title="Copy to Clipboard" class="code-copy-button"><i class="bi"></i></button></pre></div>
+</details>
+<div class="cell-output-display">
+<p><img src="0_warmup_desbois_solution_files/figure-html/unnamed-chunk-25-1.png" class="img-fluid" width="672"></p>
+</div>
+</div>
 
 </section>
 
